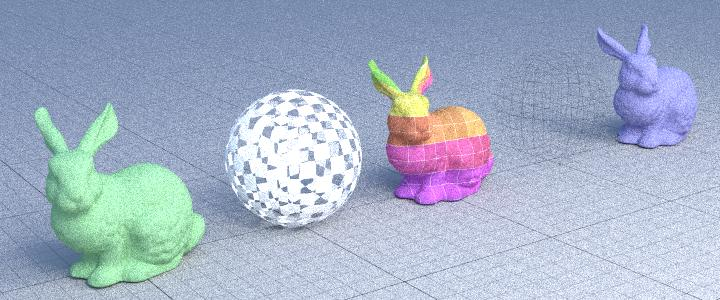
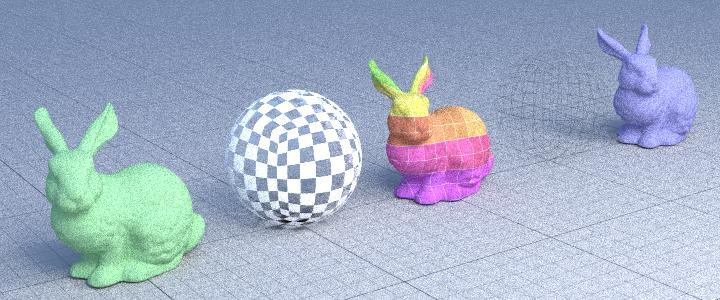
fixed opacity bugs

diff --git a/libs/yocto_raytrace/yocto_raytrace.cpp b/libs/yocto_raytrace/yocto_raytrace.cpp
@@ -94,14 +94,11 @@ namespace yocto
     // Outgoing direction
     vec3f outgoing = -ray.d;
 
-    // in object?
-    if (dot(normal, outgoing) < 0)
-      normal = -normal;
-
-    // Dealing with hairs
+    // Dealing with lines
     if (!shape.lines.empty() && !params.line_as_cone)
       normal = orthonormalize(outgoing, normal);
-
+    // in object?
+    else if (!shape.triangles.empty() && dot(normal, outgoing) < 0) normal = -normal;
     // Texcoords
     vec2f texcoords = eval_texcoord(shape, isec.element, isec.uv);
     texcoords = vec2f{fmod(texcoords.x, 1.f), fmod(texcoords.y, 1.f)};
@@ -116,12 +113,13 @@ namespace yocto
 
     // Opacity
     float opacity = material.opacity * color_tex.w;
-    if (rand1f(rng) < 1 - opacity)
+    if (rand1f(rng) > opacity)
     {
       return shade_raytrace(scene, bvh, ray3f{position, ray.d}, bounce + 1, rng, params);
     }
-
+    
     vec3f radiance = emission;
+    // Bounce limit
     if (bounce >= params.bounces)
       return xyzw(radiance, 1);
 
@@ -168,7 +166,7 @@ namespace yocto
     // Transparent
     else if (material.type == material_type::transparent)
     {
-      // Reflect or absorb?
+      // Reflect or "absorb"?
       if (rand1f(rng) < fresnel_schlick(vec3f{0.04f}, normal, outgoing).x)
       {
         // reflect
@@ -177,6 +175,7 @@ namespace yocto
       }
       else
       {
+        // "Absorb"
         vec3f incoming = -outgoing;
         radiance += material.color * xyz(shade_raytrace(scene, bvh, ray3f{position, incoming}, bounce + 1, rng, params));
       }
@@ -190,10 +189,8 @@ namespace yocto
                            const raytrace_params &params)
   {
     // YOUR CODE GOES HERE
-    // This shader has been used for debug purposes
-    const bvh_intersection &isec = intersect_bvh(bvh, scene, ray, false, true, params.line_as_cone, params.point_as_sphere);
-    if(!isec.hit) return zero4f;
-    return {isec.uv.x, isec.uv.y, 0, 1};
+    // Already handled in yocto::shade_raytrace
+    return zero4f;
   }
 
   // Eyelight for quick previewing.
@@ -215,7 +212,8 @@ namespace yocto
     else 
         normal = transform_direction(instance.frame, eval_normal(shape, intersection.element, intersection.uv));
       
-    if (!shape.lines.empty()) normal = orthonormalize(-ray.d, normal);
+    if (!shape.lines.empty() && !params.line_as_cone)
+      normal = orthonormalize(-ray.d, normal);
     
     const material_data& material = scene.materials[instance.material];
     vec2f texcoords = eval_texcoord(shape, intersection.element, intersection.uv);
@@ -278,6 +276,17 @@ namespace yocto
     return {material.color.x, material.color.y, material.color.z, 1.f};
   }
 
+  static vec4f shade_uv(const scene_data& scene, const bvh_scene& bvh,
+      const ray3f& ray, int bounce, rng_state& rng,
+      const raytrace_params& params) 
+  {
+    // This shader has been used for debug purposes
+    const bvh_intersection &isec = intersect_bvh(bvh, scene, ray, false, true,
+        params.line_as_cone, params.point_as_sphere);
+    if (!isec.hit) return zero4f;
+    return {isec.uv.x, isec.uv.y, 0, 1};
+  }
+
   // Trace a single ray from the camera using the given algorithm.
   using raytrace_shader_func = vec4f (*)(const scene_data &scene,
                                          const bvh_scene &bvh, const ray3f &ray, int bounce, rng_state &rng,
@@ -298,6 +307,8 @@ namespace yocto
       return shade_texcoord;
     case raytrace_shader_type::color:
       return shade_color;
+    case raytrace_shader_type::uv: 
+        return shade_uv;
     default:
     {
       throw std::runtime_error("sampler unknown");

diff --git a/libs/yocto/yocto_geometry.h b/libs/yocto/yocto_geometry.h
@@ -1032,22 +1032,21 @@ namespace yocto
                                      float ra, float rb,
                                      vec2f& uv, float& dist, vec3f& position, vec3f& normal)
   {
-    // If no hit return false
-    float tmp_t;
-    if (!_intersect_rounded_cone(ray, pa, pb, ra, rb, tmp_t, normal))
+    // If no hit return 
+    if (!_intersect_rounded_cone(ray, pa, pb, ra, rb, dist, normal))
       return false;
-
-    // Retrieve dist (aka t) and normals
-    dist = tmp_t;
     // Calc hit point
     position = ray_point(ray, dist);
 
-    vec3f w = normalize(pb - pa);
-    vec3f u = normalize(cross(w, vec3f{ 0, 0, 1 }));
-    vec3f v = normalize(cross(u, w));
-    vec3f q = (normal) * transpose(mat3f{ w, v, u });
+    auto  a   = dot(ray.d, ray.d);
+    auto  b   = dot(ray.d, pb-pa);
+    auto  c   = dot(pb - pa, pb - pa);
+    auto  d   = dot(ray.d, ray.o - pa);
+    auto  e   = dot(pb - pa, ray.o - pa);
+    auto  det = a * c - b * b;
+    auto  s   = clamp((a * e - b * d) / det, 0.f, 1.f);
     // UV Coords
-    uv = vec2f{ atan2(q.y, q.x), q.z };
+    uv = vec2f{s, acos(clamp(normal.z, -1.0f, 1.0f)) / pif};
     return true;
   }
 

diff --git a/libs/yocto_raytrace/yocto_raytrace.h b/libs/yocto_raytrace/yocto_raytrace.h
@@ -77,6 +77,7 @@ enum struct raytrace_shader_type {
   normal,    // normals
   texcoord,  // texcoords
   color,     // colors
+  uv,       //  uv coords
 };
 
 // Options for trace functions
@@ -95,7 +96,7 @@ struct raytrace_params {
 };
 
 const auto raytrace_shader_names = vector<string>{
-    "raytrace", "matte", "eyelight", "normal", "texcoord", "color"};
+    "raytrace", "matte", "eyelight", "normal", "texcoord", "color", "uv"};
 
 // Initialize state.
 raytrace_state make_state(
